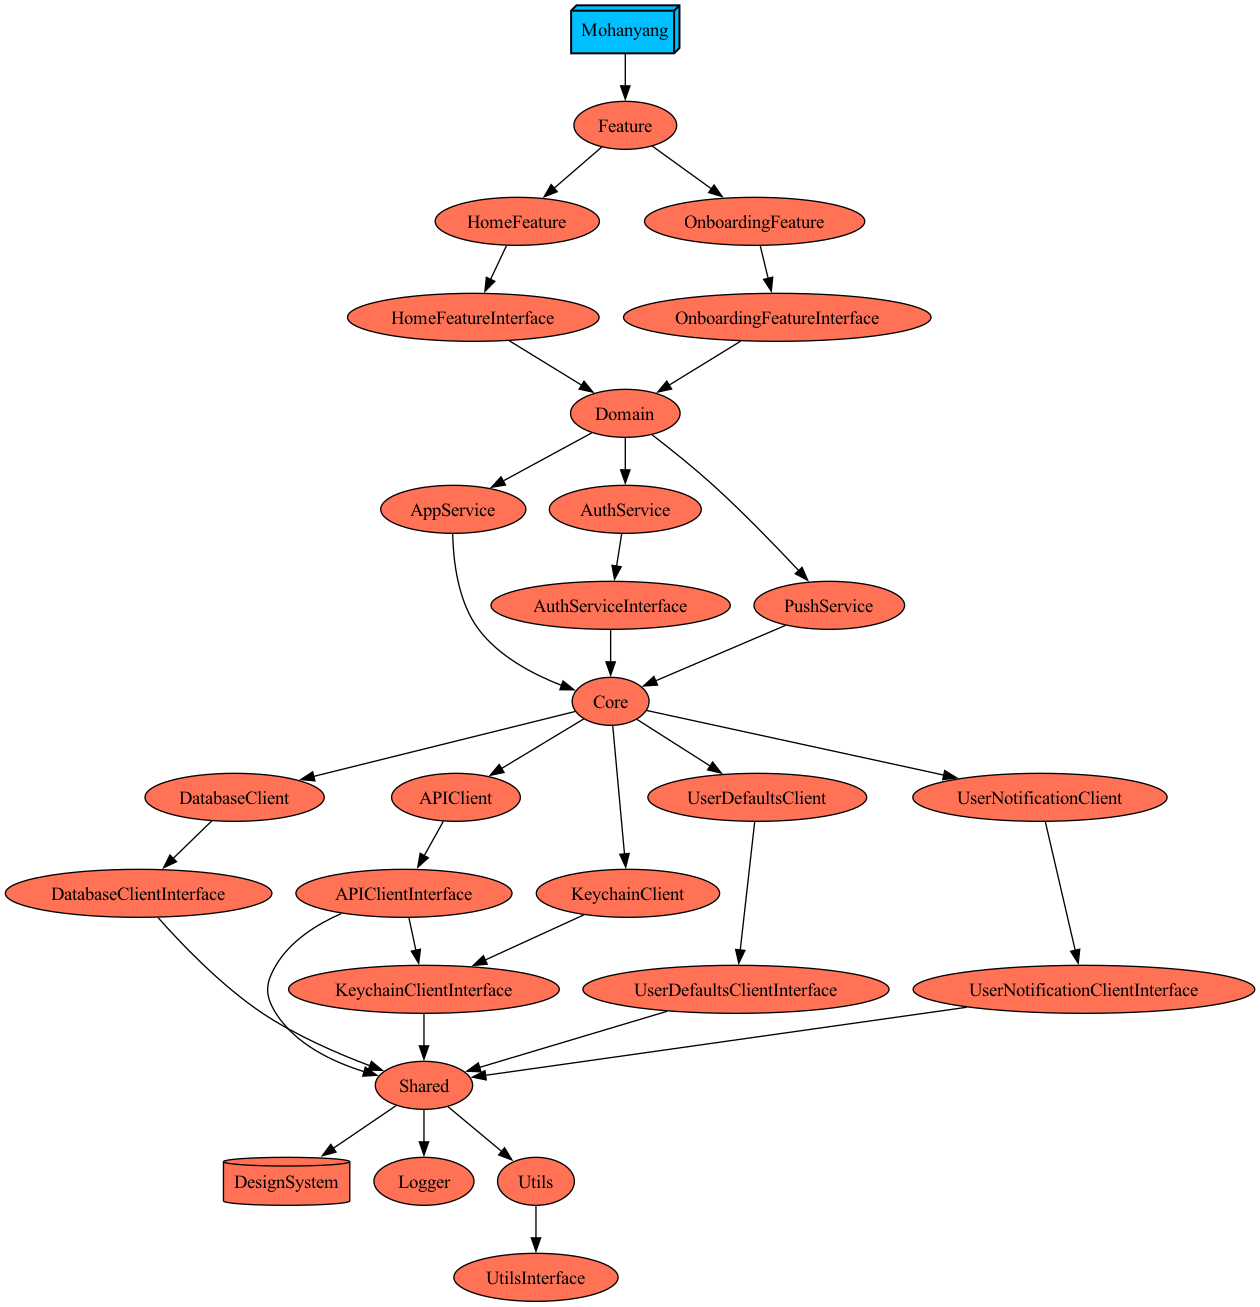
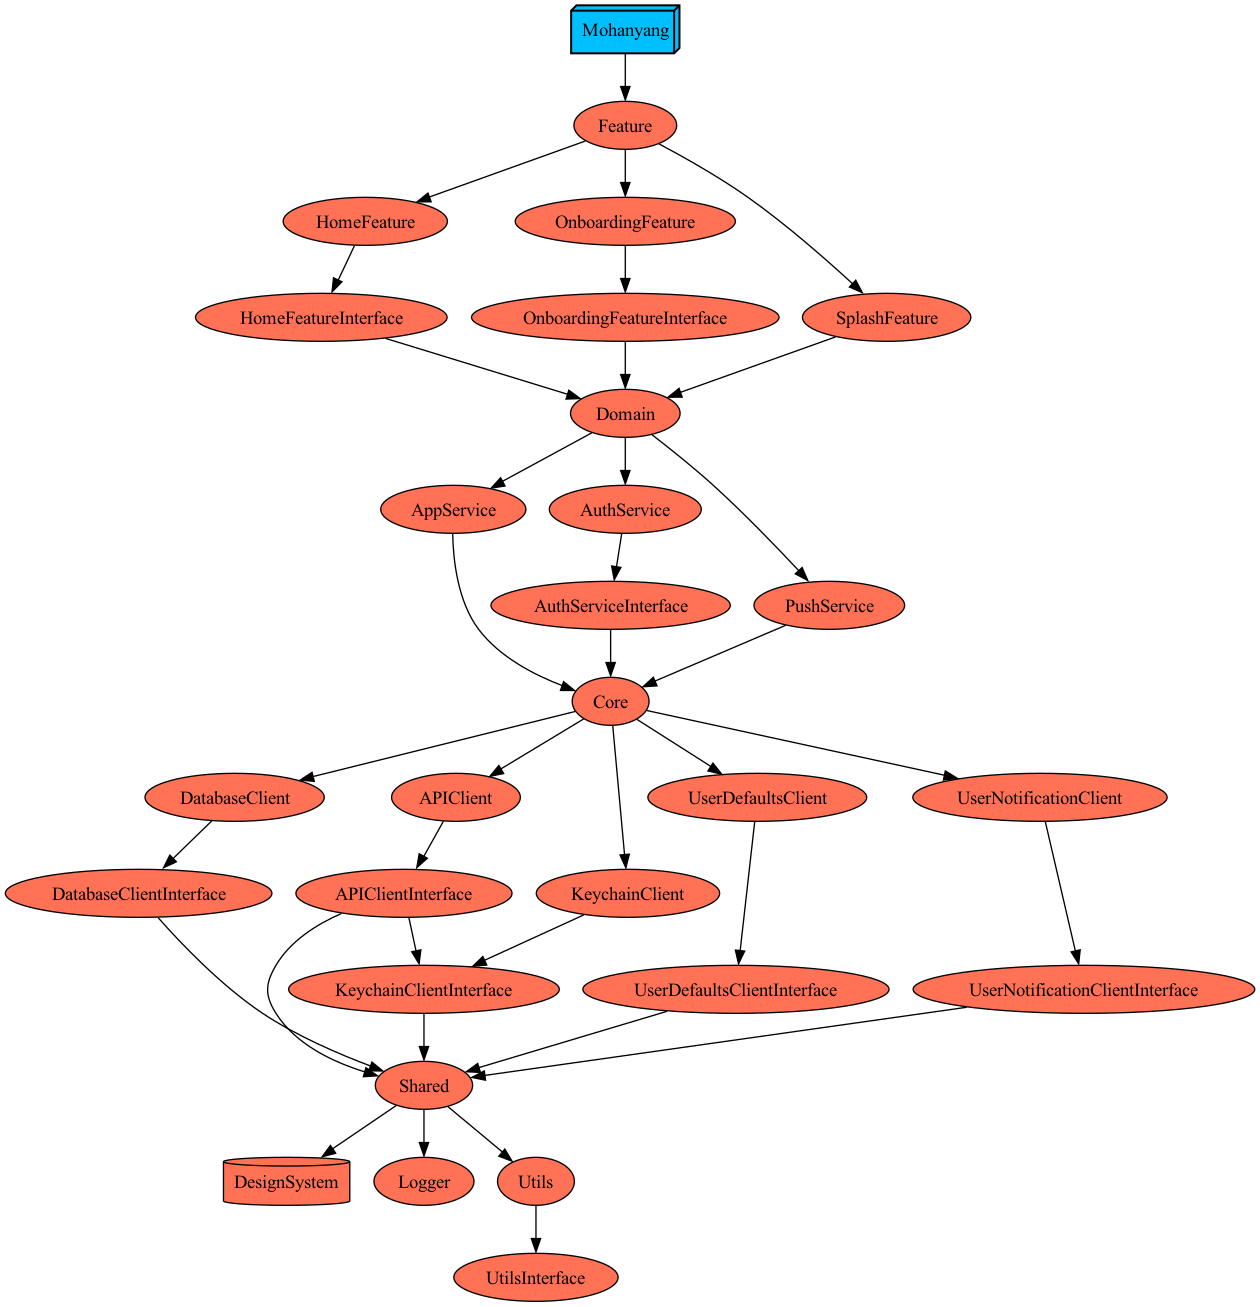
[CAT-162] Feature: Splash 구현 (#20)

diff --git a/Projects/Feature/SplashFeature/Sources/SplashCore.swift b/Projects/Feature/SplashFeature/Sources/SplashCore.swift
@@ -1,0 +1,89 @@
+//
+//  SplashCore.swift
+//  SplashFeature
+//
+//  Created by jihyun247 on 8/9/24.
+//
+
+import UIKit
+
+import APIClientInterface
+import AuthServiceInterface
+import DatabaseClientInterface
+import KeychainClientInterface
+import UserDefaultsClientInterface
+import AppService
+
+import ComposableArchitecture
+
+@Reducer
+public struct SplashCore {
+  @ObservableState
+  public struct State: Equatable {
+    public init() { }
+    var isLoggedIn: Bool = false
+  }
+
+  public enum Action {
+    case onAppear
+    case didFinishInitializeDatabase
+    case moveToHome
+    case moveToOnboarding
+  }
+
+  public init() { }
+
+  @Dependency(APIClient.self) var apiClient
+  @Dependency(AuthService.self) var authService
+  @Dependency(DatabaseClient.self) var databaseClient
+  @Dependency(KeychainClient.self) var keychainClient
+  @Dependency(UserDefaultsClient.self) var userDefaultsClient
+
+  public var body: some ReducerOf<Self> {
+    Reduce(self.core)
+  }
+
+  private func core(_ state: inout State, _ action: Action) -> EffectOf<Self> {
+    switch action {
+    case .onAppear:
+      return .run { send in
+        try await initilizeDatabaseSystem(databaseClient: databaseClient)
+        await send(.didFinishInitializeDatabase)
+      }
+    case.didFinishInitializeDatabase:
+      return checkDeviceIDExist()
+    default:
+      return .none
+    }
+  }
+}
+
+extension SplashCore {
+  private func checkDeviceIDExist() -> Effect<Action> {
+    let deviceID = keychainClient.read(key: KeychainKeys.deviceID.rawValue) ?? getDeviceUUID()
+    return login(deviceID: deviceID)
+  }
+
+  private func login(deviceID: String) -> Effect<Action> {
+    return .run { send in
+      try await authService.login(
+        deviceID: deviceID,
+        apiClient: apiClient,
+        keychainClient: keychainClient
+      )
+
+      try await Task.sleep(for: .seconds(1.5))
+
+      userDefaultsClient.boolForKey(UserDefaultsKeys.isOnboarded.rawValue) ?
+      await send(.moveToHome) : await send(.moveToOnboarding)
+    }
+  }
+
+  private func getDeviceUUID() -> String {
+    guard let uuid = UIDevice.current.identifierForVendor?.uuidString,
+          keychainClient.create(key: KeychainKeys.deviceID.rawValue, data: uuid) else {
+      return ""
+    }
+    return uuid
+  }
+}

diff --git a/Projects/Feature/Feature/Sources/AppCore.swift b/Projects/Feature/Feature/Sources/AppCore.swift
@@ -8,6 +8,7 @@
 
 import SwiftUI
 
+import SplashFeature
 import HomeFeature
 import HomeFeatureInterface
 import OnboardingFeature
@@ -21,6 +22,7 @@ public struct AppCore {
   @ObservableState
   public struct State: Equatable {
     public var appDelegate: AppDelegateCore.State = .init()
+    var splash: SplashCore.State?
     var home: HomeCore.State?
     var onboarding: OnboardingCore.State?
     
@@ -31,6 +33,7 @@ public struct AppCore {
     case onAppear
     case appDelegate(AppDelegateCore.Action)
     case didChangeScenePhase(ScenePhase)
+    case splash(SplashCore.Action)
     case home(HomeCore.Action)
     case onboarding(OnboardingCore.Action)
   }
@@ -42,6 +45,9 @@ public struct AppCore {
       AppDelegateCore()
     }
     Reduce(self.core)
+      .ifLet(\.splash, action: \.splash) {
+        SplashCore()
+      }
       .ifLet(\.home, action: \.home) {
         HomeCore()
       }
@@ -53,12 +59,7 @@ public struct AppCore {
   private func core(_ state: inout State, _ action: Action) -> EffectOf<Self> {
     switch action {
     case .onAppear:
-      let isLoggedIn = true
-      if isLoggedIn { // 로그인 판단
-        state.home = HomeCore.State()
-      } else {
-        state.onboarding = OnboardingCore.State()
-      }
+      state.splash = SplashCore.State()
       return .none
       
     case let .appDelegate(.userNotifications(.didReceiveResponse(response, completionHandler))):
@@ -80,11 +81,24 @@ public struct AppCore {
       
     case .didChangeScenePhase:
       return .none
-      
+
+    case .splash(.moveToHome):
+      state.splash = nil
+      state.home = HomeCore.State()
+      return .none
+
+    case .splash(.moveToOnboarding):
+      state.splash = nil
+      state.onboarding = OnboardingCore.State()
+      return .none
+
     case .home:
       return .none
       
     case .onboarding:
+      return .none
+
+    default:
       return .none
     }
   }

diff --git a/Projects/Domain/AuthService/Sources/API/AuthAPIClient.swift b/Projects/Domain/AuthService/Sources/API/AuthAPIClient.swift
@@ -8,22 +8,29 @@
 
 import Foundation
 import KeychainClientInterface
+import UserDefaultsClientInterface
 import AuthServiceInterface
 import Dependencies
 
-extension AuthAPIClient: DependencyKey {
-  public static let liveValue: AuthAPIClient = .live()
+extension AuthService: DependencyKey {
+  public static let liveValue: AuthService = .live()
   private static func live() -> Self {
-    return AuthAPIClient(
-      login: { deviceID, apiClient in
-        let service = AuthAPIService.login(deviceID)
+    return AuthService(
+      login: { deviceID, apiClient, keychainClient in
+        guard isTokenValid(keychainClient) else { return }
+        let service = AuthAPIRequest.login(deviceID)
         let response = try await apiClient.apiRequest(
           request: service,
           as: AuthDTO.Response.TokenResponseDTO.self,
           isWithInterceptor: false
         )
-        return response
+        _ = keychainClient.create(key: KeychainKeys.accessToken.rawValue, data: response.accessToken)
+        return
       }
     )
+  }
+
+  private static func isTokenValid(_ keychainClient: KeychainClient) -> Bool {
+    return keychainClient.read(key: KeychainKeys.accessToken.rawValue) != nil
   }
 }

diff --git a/Projects/Feature/Feature/Sources/AppDelegateCore.swift b/Projects/Feature/Feature/Sources/AppDelegateCore.swift
@@ -32,7 +32,6 @@ public struct AppDelegateCore {
     case userNotifications(UserNotificationClient.DelegateEvent)
   }
   
-  @Dependency(DatabaseClient.self) var databaseClient
   @Dependency(KeychainClient.self) var keychainClient
   @Dependency(UserNotificationClient.self) var userNotificationClient
   
@@ -56,9 +55,6 @@ public struct AppDelegateCore {
       Logger.shared.log("FCMToken: \(Messaging.messaging().fcmToken ?? "not generated")")
       
       return .run { send in
-        // TODO: - 임시로 현재 위치에 넣어논거고 Splash 개발시 SplashCore에 넣어서 작업이 완전히 끝났을때 메인화면으로 랜딩할 것.
-        try await initilizeDatabaseSystem(databaseClient: databaseClient)
-        
         await withThrowingTaskGroup(of: Void.self) { group in
           group.addTask {
             for await event in userNotificationEventStream {

diff --git a/Projects/Feature/HomeFeature/Sources/HomeCore.swift b/Projects/Feature/HomeFeature/Sources/HomeCore.swift
@@ -8,8 +8,6 @@
 
 import UserNotifications
 
-import APIClientInterface
-import AuthServiceInterface
 import HomeFeatureInterface
 import PushService
 import UserNotificationClientInterface
@@ -19,15 +17,12 @@ import ComposableArchitecture
 extension HomeCore {
   public init() {
     @Dependency(UserNotificationClient.self) var userNotificationClient
-    @Dependency(APIClient.self) var apiClient
-    @Dependency(AuthAPIClient.self) var authAPIClient
 
     let reducer = Reduce<State, Action> { _, action  in
       switch action {
       case .onAppear:
         return .run { send in
           _ = try await userNotificationClient.requestAuthorization([.alert, .badge, .sound])
-          _ = try await authAPIClient.login(deviceID: "deviceID", apiClient: apiClient)
         }
         
       case .localPushButtonTapped:

diff --git a/Projects/Domain/AuthService/Interface/API/AuthAPIClientInterface.swift b/Projects/Domain/AuthService/Interface/API/AuthAPIClientInterface.swift
@@ -10,20 +10,22 @@ import Foundation
 
 import APIClientInterface
 import KeychainClientInterface
+import UserDefaultsClientInterface
 
 import Dependencies
 import DependenciesMacros
 
 
 @DependencyClient
-public struct AuthAPIClient {
+public struct AuthService {
   public var login: @Sendable (
     _ deviceID: String,
-    _ apiClient: APIClient
-  ) async throws -> AuthDTO.Response.TokenResponseDTO
+    _ apiClient: APIClient,
+    _ keychainClient: KeychainClient
+  ) async throws -> Void
 }
 
-extension AuthAPIClient: TestDependencyKey {
+extension AuthService: TestDependencyKey {
   public static let previewValue = Self()
   public static let testValue = Self()
 }

diff --git a/Projects/Feature/Feature/Sources/AppView.swift b/Projects/Feature/Feature/Sources/AppView.swift
@@ -8,6 +8,7 @@
 
 import SwiftUI
 
+import SplashFeature
 import HomeFeature
 import HomeFeatureInterface
 import OnboardingFeature
@@ -24,7 +25,9 @@ public struct AppView: View {
   
   public var body: some View {
     Group {
-      if let homeStore = store.scope(state: \.home, action: \.home) {
+      if let splashStore = store.scope(state: \.splash, action: \.splash) {
+        SplashView(store: splashStore)
+      } else if let homeStore = store.scope(state: \.home, action: \.home) {
         HomeView(store: homeStore)
       } else if let onboardingStore = store.scope(state: \.onboarding, action: \.onboarding) {
         OnboardingView(store: onboardingStore)

diff --git a/Projects/Feature/SplashFeature/Sources/SplashView.swift b/Projects/Feature/SplashFeature/Sources/SplashView.swift
@@ -1,0 +1,28 @@
+//
+//  SplashView.swift
+//  SplashFeature
+//
+//  Created by 김지현 on 8/9/24.
+//  Copyright © 2024 PomoNyang. All rights reserved.
+//
+
+import SwiftUI
+
+import DesignSystem
+
+import ComposableArchitecture
+
+public struct SplashView: View {
+  let store: StoreOf<SplashCore>
+
+  public init(store: StoreOf<SplashCore>) {
+    self.store = store
+  }
+  public var body: some View {
+    Text("Splash")
+      .font(Typography.time)
+      .onAppear {
+        store.send(.onAppear)
+      }
+  }
+}

diff --git a/Projects/Core/KeychainClient/Interface/Keys.swift b/Projects/Core/KeychainClient/Interface/Keys.swift
@@ -1,0 +1,15 @@
+//
+//  Keys.swift
+//  KeychainClientInterface
+//
+//  Created by 김지현 on 8/9/24.
+//  Copyright © 2024 PomoNyang. All rights reserved.
+//
+
+import Foundation
+
+public enum KeychainKeys: String {
+  case accessToken = "mohanyang_keychain_access_token"
+  case refreshToken = "mohanyang_keychain_refresh_token"
+  case deviceID = "mohanyang_keychain_deviceID"
+}

diff --git a/Projects/Core/UserDefaultsClient/Interface/Keys.swift b/Projects/Core/UserDefaultsClient/Interface/Keys.swift
@@ -1,0 +1,14 @@
+//
+//  Keys.swift
+//  UserDefaultsClientInterface
+//
+//  Created by 김지현 on 8/9/24.
+//  Copyright © 2024 PomoNyang. All rights reserved.
+//
+
+import Foundation
+
+public enum UserDefaultsKeys: String {
+  case isFirstInstalled = "mohanyang_userdefaults_isFirstInstalled"
+  case isOnboarded = "mohanyang_userdefaults_isOnboarded"
+}

diff --git a/Projects/Feature/SplashFeature/Project.swift b/Projects/Feature/SplashFeature/Project.swift
@@ -1,0 +1,19 @@
+import ProjectDescription
+import ProjectDescriptionHelpers
+
+@_spi(Feature)
+@_spi(Domain)
+import DependencyPlugin
+
+let project: Project = .makeTMABasedProject(
+  module: Feature.SplashFeature,
+  scripts: [],
+  targets: [
+    .sources
+  ],
+  dependencies: [
+    .sources: [
+      .dependency(rootModule: Domain.self)
+    ]
+  ]
+)

diff --git a/Projects/Domain/AuthService/Interface/API/AuthAPIRequest.swift b/Projects/Domain/AuthService/Interface/API/AuthAPIRequest.swift
@@ -9,11 +9,11 @@
 import Foundation
 import APIClientInterface
 
-public enum AuthAPIService {
+public enum AuthAPIRequest {
   case login(_ deviceId: String)
 }
 
-extension AuthAPIService: APIBaseRequest {
+extension AuthAPIRequest: APIBaseRequest {
   public var baseURL: String {
     return API.apiBaseURL
   }
